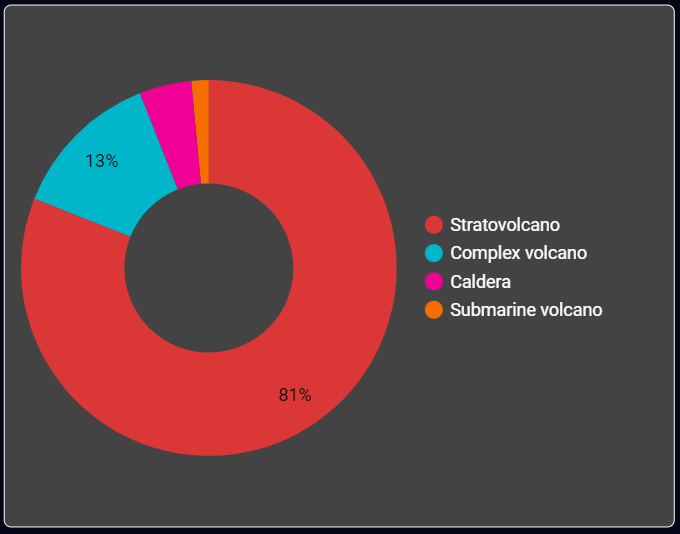
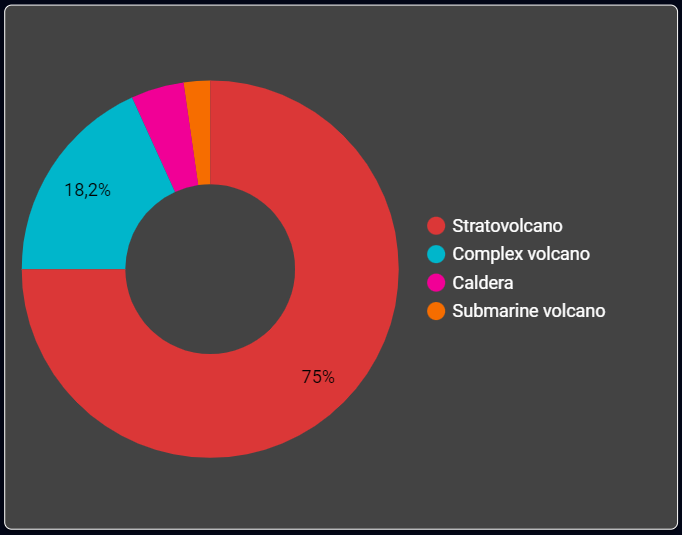
Menambahkan Insight

diff --git a/index.html b/index.html
@@ -42,10 +42,8 @@
                 <iframe src="https://lookerstudio.google.com/embed/reporting/15f12446-3680-4cee-9857-b659af71ff17/page/lsgPD" frameborder="0" style="border:0" allowfullscreen></iframe>
             </div>
             <p class="container teks-pengenalan">
-                Lorem ipsum dolor sit amet consectetur adipisicing elit. Nostrum illum dignissimos ea amet aspernatur perspiciatis distinctio dolore reprehenderit quae tempore! Libero nobis aut quia nostrum. Delectus, voluptatem? Cum sed quam eius, temporibus quod magnam, accusamus, omnis animi quo sunt tempora! <br><br>
-                Lorem ipsum dolor sit amet consectetur adipisicing elit. Officia totam enim excepturi labore sapiente molestiae repellendus accusamus quis eaque laudantium magnam autem laborum tempore sint libero omnis, eius, est vitae velit quo corrupti, similique iste? Nobis aperiam qui nisi repellat nesciunt illo deserunt harum! Quia? <br><br>
-                Lorem ipsum dolor, sit amet consectetur adipisicing elit. Quia, nobis nemo? Explicabo et, ea voluptate ut neque iure similique. Id reiciendis assumenda eligendi. Aperiam voluptatem ut aliquam est dolorum ullam, vel facere ratione eaque odit? Placeat provident ducimus quibusdam sapiente sint sed, pariatur vitae earum? <br><br>
-                Lorem ipsum dolor sit amet consectetur adipisicing elit. Minus cupiditate unde, ut perferendis quam illo, quas error, cumque aspernatur sunt adipisci incidunt doloribus deserunt alias a. Distinctio facilis quaerat incidunt expedita eligendi laboriosam sed, velit autem explicabo! Nulla numquam quidem atque consectetur animi aliquid autem. <br><br>
+                Pada Dashboard Visualisasi Data Gunung Berapi Indonesia terdapat Peta Lokasi dengan titik-titik sebaran Gunung Berapi di dalamnya. Pada visualisasi tersebut terdapat 44 total gunung, dengan total erupsi terjadi sebanyak 198 kali, dengan jumlah total kematian sebesar 57.160, korban hilang sebanyak 252, korban luka-luka 34.912, dan rumah hancur terdata sebanyak 19.385. <br><br>
+                Terdapat juga kontrol filter yang digunakan untuk melakukan pencarian berdasarkan nama gunung dan tahun erupsi. Pada bagian bawah terdapat nama-nama gunung yang dibedakan berdasarkan gelembung warna. Tetapi data diatas merupakan data sekunder yang didapat pada Kaggle.com, oleh karena itu, terdapat beberapa kemungkinan kesalahan dan data erupsi yang mungkin tidak lengkap. <br><br>
             </p>
         </article>
         
@@ -64,27 +62,27 @@
             <div class="card1">
                 <img src="assets/img/erupsi.PNG" class="img-article2" alt="">
                 <h4 class="judul-card">Jumlah Erupsi</h4>
-                <p class="penjelasan-card">Lorem ipsum dolor sit amet consectetur adipisicing elit. Laudantium cupiditate itaque in! Aut, eligendi optio hic commodi ratione nisi eveniet repudiandae quia harum vel qui.</p>
+                <p class="penjelasan-card">Dalam Visualisasi Data Gunung Berapi di Indonesia, data yang dikumpulkan adalah selama periode 710 tahun. Pada visualisasi diatas, Merapi merupakan gunung paling banyak terjadi erupsi yaitu sebanyak 28 kali erupsi, di nomor dua terdapat Gunung Semeru dengan total 24 kali erupsi dan nomor tiga Gunung Kelut menjadi yang terbanyak ketiga terjadinya erupsi. Diantara 10 besar gunung berapi paling sering erupsi, sebanyak 80% merupakan gunung bertipe Stratovolcano, dan 10% bertipe Complex Volcano, 10% lainnya bertipe Caldera.</p>
             </div>
             <div class="card1">
                 <img src="assets/img/tipe.PNG" class="img-article2" alt="">
                 <h4 class="judul-card">Tipe Gunung</h4>
-                <p class="penjelasan-card">Lorem ipsum dolor sit amet, consectetur adipisicing elit. Velit, corporis voluptatum facilis fuga incidunt dolore sunt dolorum hic nemo delectus nesciunt rerum quam at similique.</p>
+                <p class="penjelasan-card">Pada data visualisasi diatas, sebanyak 75% tipe gunung di Indonesia adalah Stratovolcano, sedangkan 18,2% tipe gunung di Indonesia adalah Complex Volcano, dan 4,5% tipe gunung di Indonesia adalah Caldera, serta sisanya sebanyak 2,3% tipe gunung di Indonesia adalah Submarine Volcano.</p>
             </div>
             <div class="card1">
                 <img src="assets/img/korban.PNG" class="img-article2" alt="">
                 <h4 class="judul-card">Jumlah Korban</h4>
-                <p class="penjelasan-card">Lorem ipsum, dolor sit amet consectetur adipisicing elit. Harum recusandae in esse odit nemo quo porro mollitia debitis iste, deleniti necessitatibus, optio perspiciatis? Est, fugiat.</p>
+                <p class="penjelasan-card">Jumlah kematian yang disebabkan oleh erupsi/letusan gunung berapi pada Visualisasi Data Gunung Berapi di Indonesia. Pada visualisasi diatas, total kematian terbanyak disebabkan oleh Gunung Kelut sebanyak 15.460 korban, nomor dua terdapat gunung Tambora sebanyak 11.000 korban jiwa, dan urutan ketiga Gunung Awu sebanyak 8.330 korban. Dari total 10 besar kematian tertinggi, sebanyak 90% merupakan gunung bertipe Statovolcano dan 10 % bertipe gunung Caldera.</p>
             </div>
             <div class="card1">
                 <img src="assets/img/VEI.PNG" class="img-article2" alt="">
-                <h4 class="judul-card">Tingkat Ledakan</h4>
-                <p class="penjelasan-card">Mitologi Nordik menjadi bagian penting dalam kebudayaan Bangsa Viking, dengan dewa-dewa seperti Thor, Odin, dan Freyja dihormati dan diabadikan dalam seni dan cerita rakyat.</p>
+                <h4 class="judul-card">Tingkat Ledakan VEI</h4>
+                <p class="penjelasan-card">Pada Dashboard Visualisasi Data Gunung Berapi di Indonesia, selama periode 710 tahun tingkat ledakan tertinggi dipegang oleh Gunung Tambora dengan Score VEI (Volcanic Explosivity Index) 7 dan ledakan tinggi kedua ada gunung Krakatau dengan score VEI 6.</p>
             </div>
             <div class="card1">
                 <img src="assets/img/korelasi.PNG" class="img-article2" alt="" height="250">
                 <h4 class="judul-card">Korelasi Korban Kematian</h4>
-                <p class="penjelasan-card">Lorem ipsum dolor sit amet consectetur, adipisicing elit. Earum repellat optio asperiores nesciunt, iusto officia praesentium corporis, blanditiis molestiae officiis expedita ipsa voluptas. Soluta, aspernatur.</p>
+                <p class="penjelasan-card">Pada Visualisasi diatas, terlihat korelasi/hubungan antara korban kematian dengan tinggi gunung dan kematian setiap tahunnya. Dimana dari tahun 1311 hingga 1925 korban sebanyak 52.350 dengan erupsi berjumlah 81 kali, berbanding terbalik dari tahun 1926 hingga 2021 jumlah korban sebanyak 4.810 dengan erupsi yang lebih banyak yaitu 117 kali. Banyaknya korban di zaman dahulu dibanding sekarang walaupun erupsi lebih sedikit disebabkan beberapa hal, pertama mungkin banyak data erupsi yang tidak terdata di tahun-tahun dahulu, kedua teknologi mengenai peringatan akan gunung erupsi/meletus belum secanggih saat ini, ketiga kepekaan masyarakat terhadap gunung yang erupsi/meletus belum sebaik sekarang, keempat meletusnya gunung-gunung purba dahulu memang sangat dahsyat hingga banyak sekali korban.</p>
             </div>
             </div>
         </article>
@@ -104,14 +102,14 @@
             <img src="assets/img/Tsunami.PNG" alt="" class="border-img">
             <div class="text-article2">
                 <h2 class="judul-article2">Insight Tsunami</h2>
-                <p class="teks-sejarah">Lorem ipsum dolor sit amet consectetur, adipisicing elit. Repellat facilis dolor amet. Hic ducimus non tempora accusantium ut in dicta, est corrupti quam consectetur. Quia porro quod atque at voluptas provident pariatur numquam ut dolore vero? Deserunt nam cupiditate officiis ad? Unde, fugit veritatis! Reprehenderit odit quidem veniam eaque laboriosam.</p>
+                <p class="teks-sejarah">Letusan gunung berapi yang terjadi di bawah laut atau di dekat pantai dapat menyebabkan terjadinya tsunami. Ketika material gunung berapi jatuh ke laut dengan kecepatan tinggi, dapat menciptakan gelombang tsunami yang besar dan merusak.</p>
                 <button id="myBtn" class="button-article2">Baca Selengkapnya...</button>
             </div>
         </article>
         <article class="article3 container2" id="sejarah">
             <div class="text-article3">
                 <h2 class="judul-article5">Insight Gempa Bumi</h2>
-                <p class="teks-sejarah2">Lorem, ipsum dolor sit amet consectetur adipisicing elit. Reprehenderit, velit reiciendis! Dignissimos ad mollitia facere sed in omnis voluptatum maiores, tenetur ipsa obcaecati accusantium? Necessitatibus, unde. Cumque neque adipisci id temporibus reiciendis laboriosam consectetur, enim libero dolor doloremque, quaerat voluptas quidem odit doloribus eum error, dignissimos nostrum repellat quod assumenda!</p>
+                <p class="teks-sejarah2">Gempa Bumi Vulkanik disebabkan oleh pergerakan magma di dalam gunung berapi yang menciptakan tekanan yang kuat dan dapat merambat ke sekitarnya, menyebabkan gempa bumi lokal.</p>
                 <button id="myBtn2" class="button-article2">Baca Selengkapnya...</button>
             </div>
             <img src="assets/img/Gempa_Bumi.PNG" alt="" class="border-img" style="margin-right: 50px;">
@@ -164,13 +162,10 @@
         <div class="modal-body">
             <hr>
             <img src="assets/img/Tsunami.PNG" alt="" class="border-img img-center">
-            <p style="text-align: justify;" class="small-text">Lorem ipsum dolor sit amet consectetur adipisicing elit. Maxime quas quae quasi nesciunt beatae est voluptatibus pariatur, culpa consequatur. Voluptas. <br><br>
-
-                Lorem ipsum, dolor sit amet consectetur adipisicing elit. Quia natus nesciunt sunt blanditiis ipsum modi, impedit nam? Voluptas, ullam impedit. <br><br>
-                
-                Lorem ipsum dolor sit, amet consectetur adipisicing elit. Eos aperiam, nihil vel deleniti qui id totam ut consectetur molestias eveniet. <br><br>
-                
-                Lorem, ipsum dolor sit amet consectetur adipisicing elit. Optio aliquid ex eligendi eos, quo unde vero sit id quas repellendus.</p>
+            <p style="text-align: justify;" class="small-text">Letusan gunung berapi yang terjadi di bawah laut atau di dekat pantai dapat menyebabkan terjadinya tsunami. Ketika material gunung berapi jatuh ke laut dengan kecepatan tinggi, dapat menciptakan gelombang tsunami yang besar dan merusak. <br><br>
+                Pada dashboard diatas penyebab tsunami terbesar adalah letusan Gunung Krakatau dan Iliwerung. Dituliskan pada Pusat Vulkanologi dan Mitigasi Bencana Geologi (PVMBG), gelombang tsunami yang ditimbulkan akibat letusan Gunung Krakatau sangat kuat, bahkan bongkahan coral seberat 600 ton terlempar ke darat. Suara letusan terdengar sejauh 4.500 km. Dan waktu tempuh gelombang tsunami ke Surabaya sekitar 11,9 jam dengan tinggi 0,2 meter. <br><br>
+                Selain Gunung Krakatau, terdapat gunung di daerah Nusa Tenggara Timur Bernama Iliwerung yang menyebabkan tsunami hingga menciptakan gelombang setinggi 9 meter yang disebabkan oleh runtuhan tubuh gunung ke laut.
+            </p>
                 <hr>
         </div>
         </div>
@@ -187,13 +182,10 @@
         <div class="modal-body">
             <hr>
             <img src="assets/img/Gempa_Bumi.PNG" alt="" class="border-img img-center">
-            <p style="text-align: justify;" class="small-text">Lorem ipsum dolor sit amet consectetur adipisicing elit. Maxime quas quae quasi nesciunt beatae est voluptatibus pariatur, culpa consequatur. Voluptas. <br><br>
-        
-                Lorem ipsum, dolor sit amet consectetur adipisicing elit. Quia natus nesciunt sunt blanditiis ipsum modi, impedit nam? Voluptas, ullam impedit. <br><br>
-                        
-                Lorem ipsum dolor sit, amet consectetur adipisicing elit. Eos aperiam, nihil vel deleniti qui id totam ut consectetur molestias eveniet. <br><br>
-                        
-                Lorem, ipsum dolor sit amet consectetur adipisicing elit. Optio aliquid ex eligendi eos, quo unde vero sit id quas repellendus.</p>
+            <p style="text-align: justify;" class="small-text">Gempa Bumi Vulkanik disebabkan oleh pergerakan magma di dalam gunung berapi yang menciptakan tekanan yang kuat dan dapat merambat ke sekitarnya, menyebabkan gempa bumi lokal. <br><br>   
+                Pada dashboard, titik gelembung terbesar gunung yang menyebabkan gempa bumi adalah Gunung Ijen, Gunung Ijen terkenal dengan aktivitas vulkaniknya, terutama karena adanya kawah kawah yang menghasilkan belerang dan api biru. <br><br>                       
+                Namun, secara umum, aktivitas gunung seperti Gunung Ijen biasanya tidak menyebabkan gempa bumi yang signifikan. Gempa vulkanik ini biasanya memiliki magnitudo yang relatif kecil dan jangkauan yang terbatas di sekitar area gunung. <br><br>
+            </p>
                 <hr>
         </div>
         </div>
